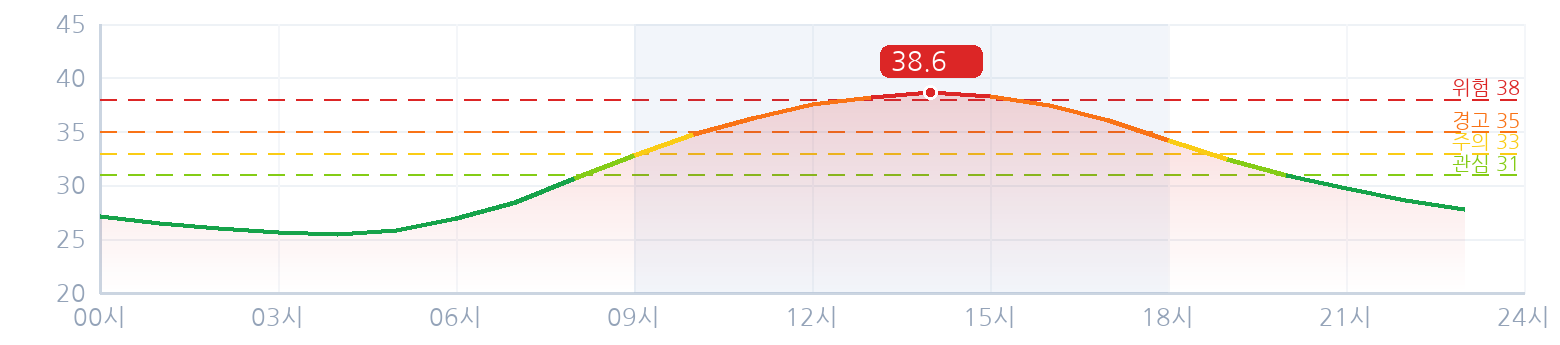
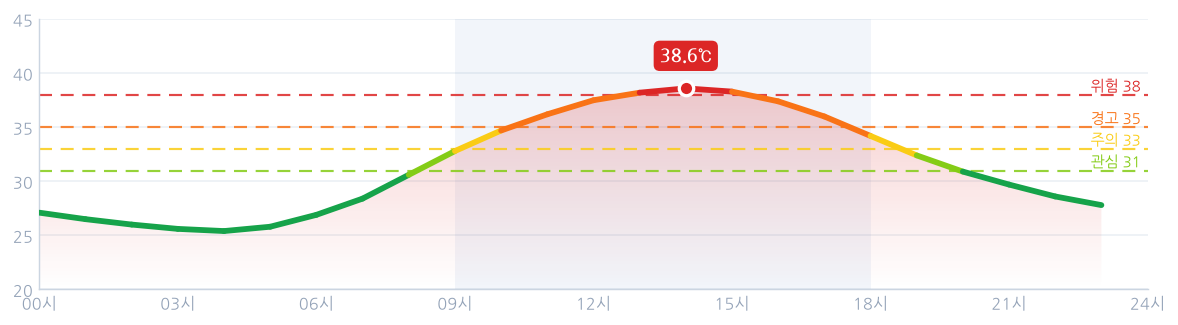
fix: _mpl_hourly 그라데이션 rgba 브로드캐스트 오류 — 조용히 PIL 폴백되던 것 수정
- rgba[...,3] = grad[...,0]((256,)) → (256,1) 직접 대입. 이제 mpl 시간별 차트가
  실제로 렌더(매끈한 라인·그라데이션 area). hourly 샘플 PNG도 mpl 출력으로 갱신.

diff --git a/backend/app/services/report.py b/backend/app/services/report.py
@@ -596,12 +596,11 @@ def _mpl_hourly(series, th) -> str | None:
 
     # 영역 그라데이션(라인 아래) — imshow + 폴리곤 클립
     fillc = ax.fill_between(xs, ys, ymin, color="none")
-    grad = np.linspace(0.30, 0.0, 256).reshape(-1, 1)
     rgba = np.zeros((256, 1, 4))
     rgba[..., 0] = 0.86  # dc2626
     rgba[..., 1] = 0.15
     rgba[..., 2] = 0.15
-    rgba[..., 3] = grad[..., 0]
+    rgba[..., 3] = np.linspace(0.30, 0.0, 256).reshape(-1, 1)  # 위→아래 알파 감소
     im = ax.imshow(rgba, aspect="auto", extent=[0, 24, ymin, ymax], origin="upper", zorder=1)
     im.set_clip_path(fillc.get_paths()[0], transform=ax.transData)
 
